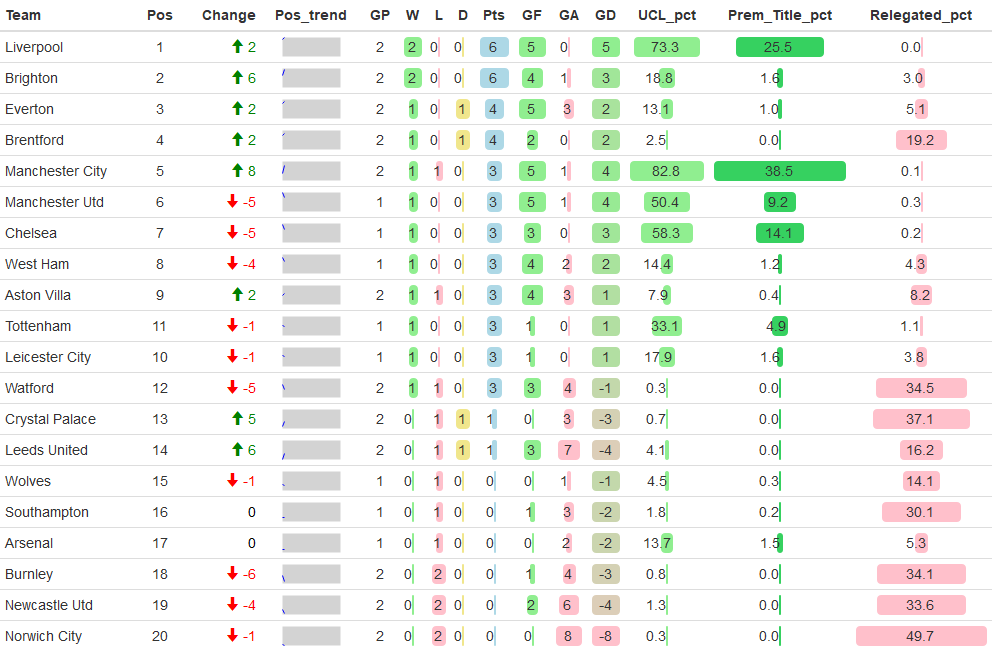
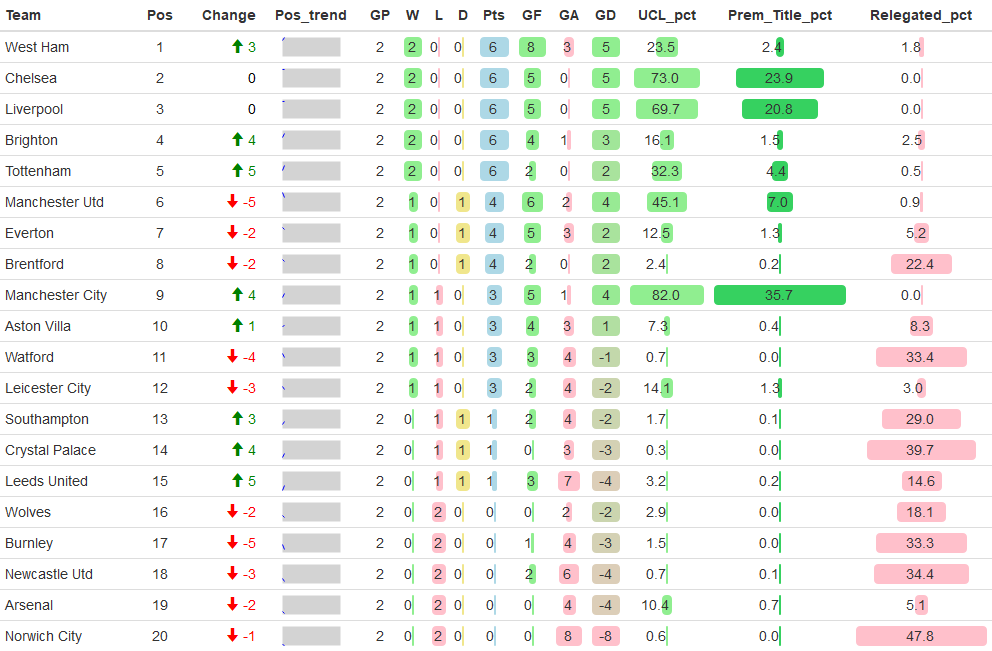
matchweek 2 complete

diff --git a/README.md b/README.md
@@ -31,7 +31,7 @@ When doing this, make sure you run the variables at the top of "Run.R", as they 
 
 SPI scores come from [fivethirtyeight](https://projects.fivethirtyeight.com/soccer-predictions/premier-league/)  
 
-Scores and schedule comes from [fbref](https://fbref.com/en/comps/9/schedule/Premier-League-Scores-and-Fixtures)  
+Scores and schedule come from [fbref](https://fbref.com/en/comps/9/schedule/Premier-League-Scores-and-Fixtures)  
 
 Prediction model is based on the method by [fivethirtyeight](https://fivethirtyeight.com/methodology/how-our-club-soccer-predictions-work/)
 
